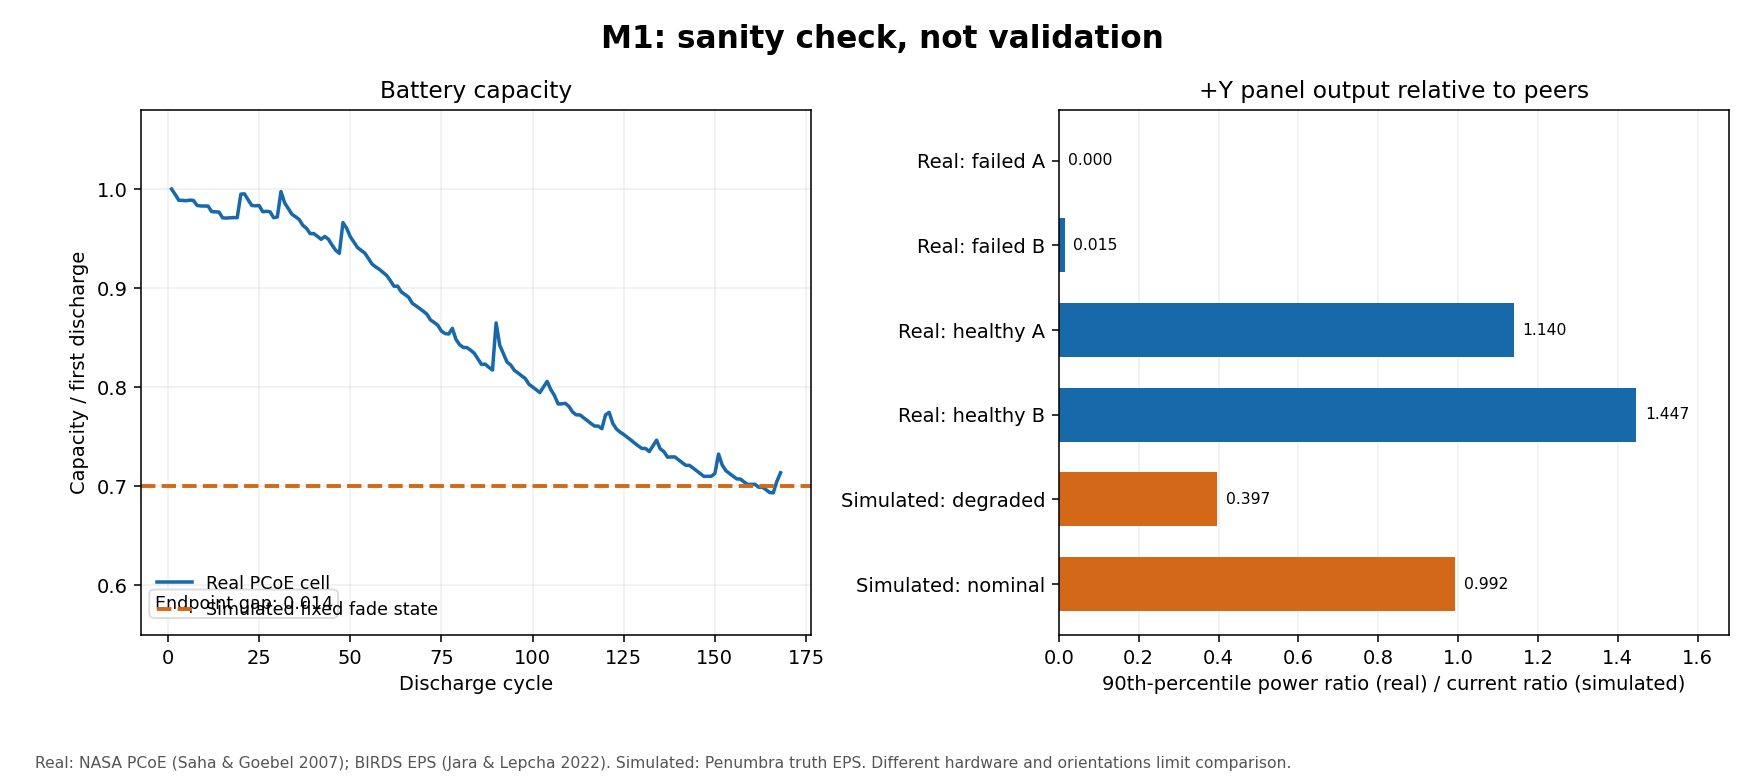
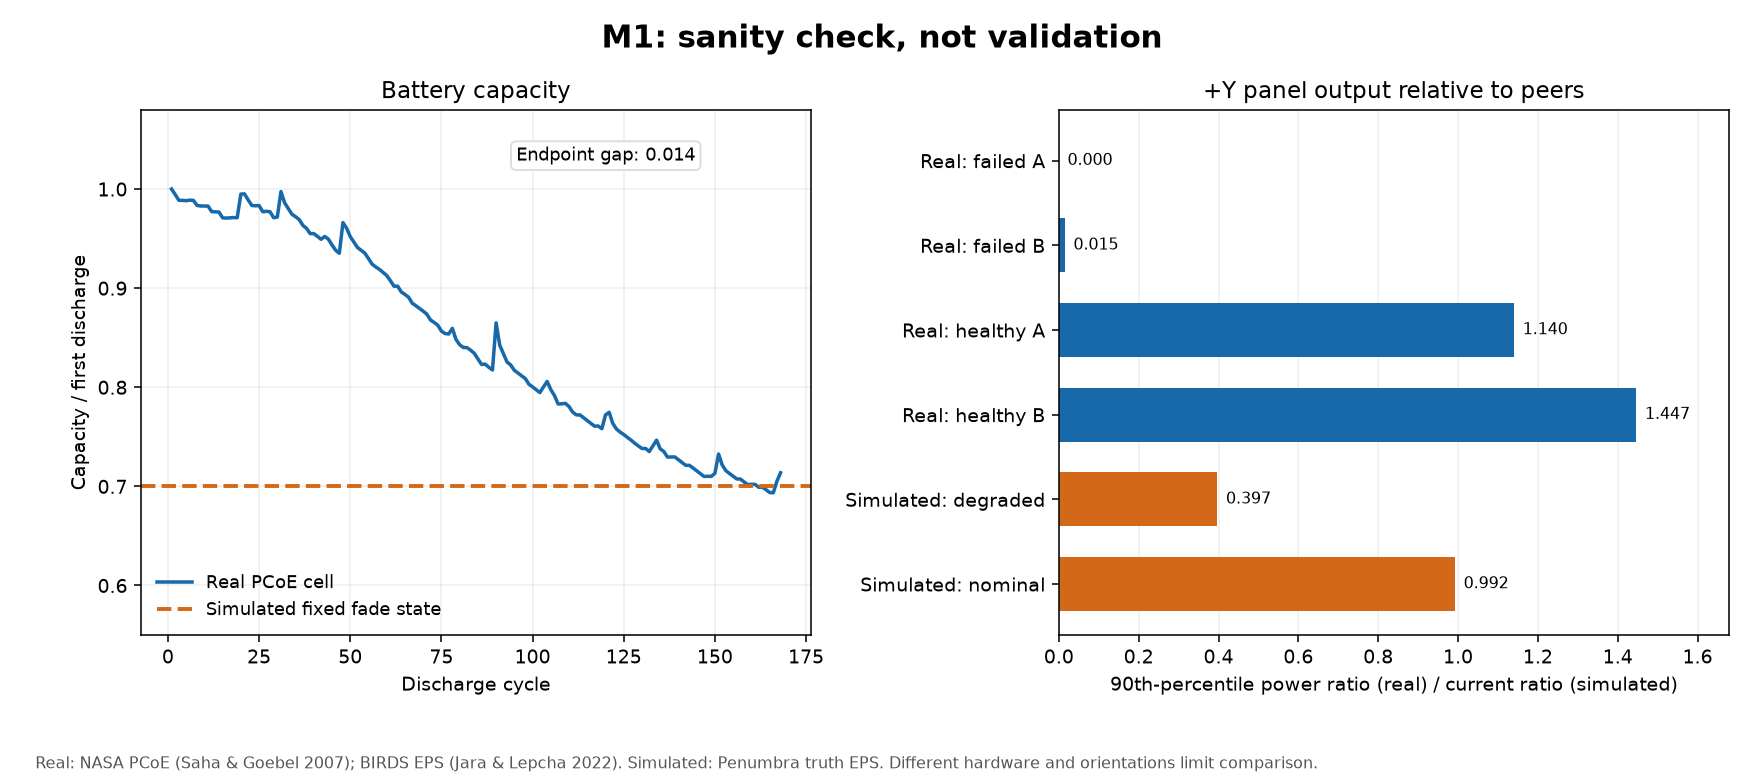
T30: improve sanity-check plot labels

diff --git a/bench/plot_m1.py b/bench/plot_m1.py
@@ -38,10 +38,11 @@ def render_plot(result: dict, path: Path = ROOT / "bench/results/m1.png") -> Pat
     battery.grid(alpha=0.2)
     battery.legend(loc="lower left", frameon=False, fontsize=9)
     battery.text(
-        0.02, 0.05,
+        0.56, 0.93,
         f"Endpoint gap: {capacity['endpoint_abs_gap']:.3f}",
         transform=battery.transAxes,
         fontsize=9,
+        va="top",
         bbox={"boxstyle": "round,pad=0.3", "facecolor": "white", "edgecolor": "#dddddd"},
     )
 
